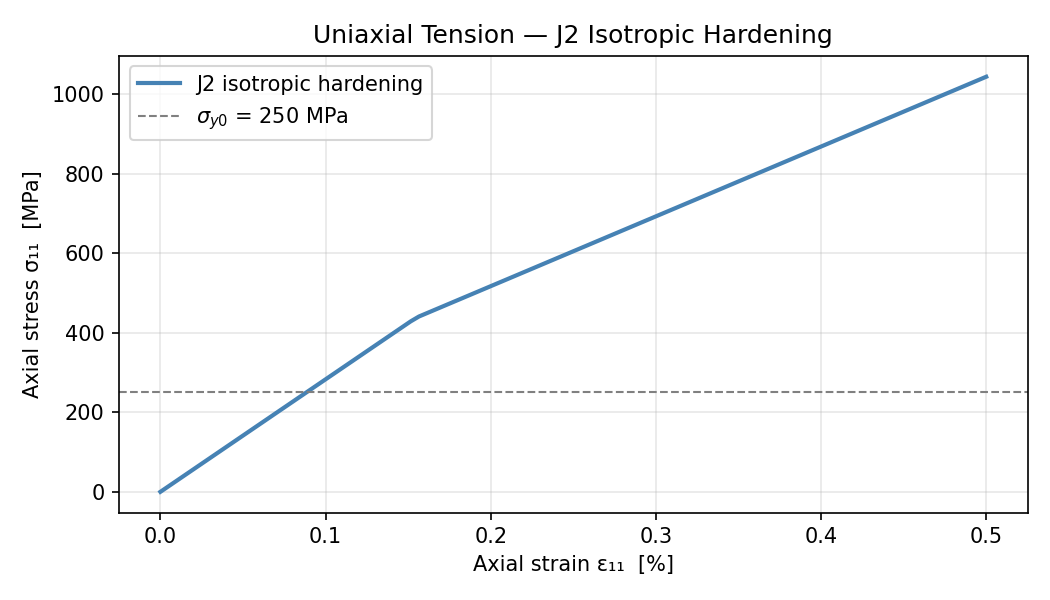
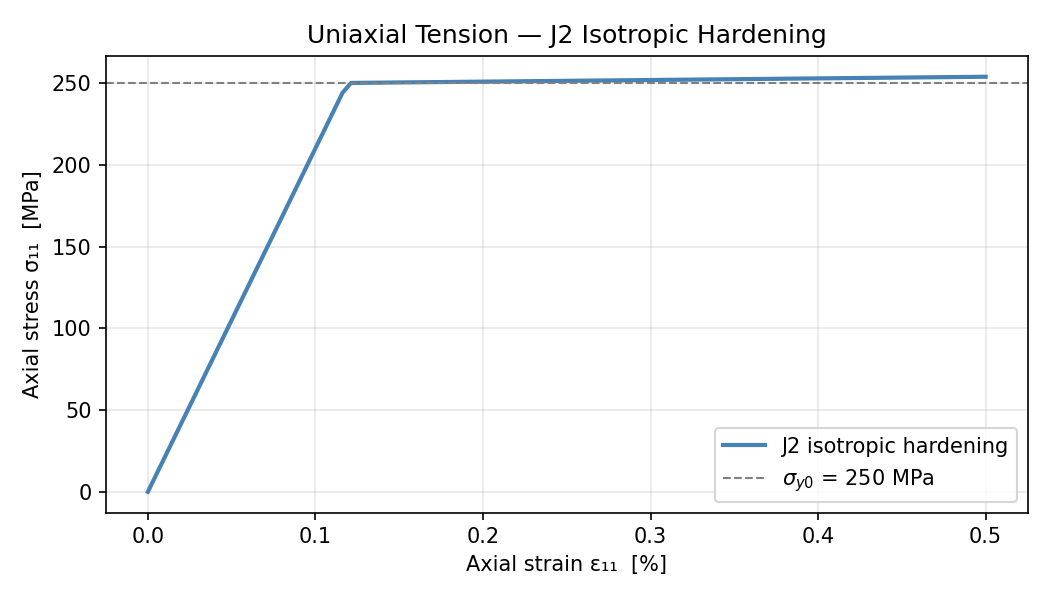
fix: switch examples to J2Isotropic1D for correct uniaxial yield stress plot
J2Isotropic3D with StrainDriver's uniaxial branch applies constrained strain
(lateral strains locked to zero), causing yield at sigma_11 ≈ 437 MPa instead
of sigma_y0=250 MPa. J2Isotropic1D gives sigma_vm = |sigma_11|, so the yield
kink aligns exactly with the sigma_y0 reference line.

diff --git a/examples/example_j2_uniaxial.py b/examples/example_j2_uniaxial.py
@@ -1,7 +1,7 @@
 """Uniaxial tension simulation with J2 isotropic hardening.
 
 Demonstrates:
-- Defining material parameters for J2Isotropic3D
+- Defining material parameters for J2Isotropic1D
 - Running a uniaxial strain history with UniaxialDriver
 - Verifying the consistent tangent with check_tangent
 - Plotting the stress-strain curve (saved as PNG)
@@ -14,7 +14,7 @@ Usage
 import numpy as np
 
 import manforge  # noqa: F401 — enables JAX float64
-from manforge.models.j2_isotropic import J2Isotropic3D
+from manforge.models.j2_isotropic import J2Isotropic1D
 from manforge.simulation.driver import StrainDriver
 from manforge.simulation.types import FieldHistory, FieldType
 from manforge.verification.fd_check import check_tangent
@@ -42,7 +42,7 @@ params = {
 # ---------------------------------------------------------------------------
 # Simulation
 # ---------------------------------------------------------------------------
-model = J2Isotropic3D()
+model = J2Isotropic1D()
 driver = StrainDriver()
 
 N = 100
@@ -76,10 +76,10 @@ print()
 print("Tangent check — elastic domain:")
 result_e = check_tangent(
     model,
-    jnp.zeros(6),
+    jnp.zeros(1),
     model.initial_state(),
     params,
-    jnp.array([1e-5, 0.0, 0.0, 0.0, 0.0, 0.0]),
+    jnp.array([1e-5]),
 )
 status = "PASS" if result_e.passed else "FAIL"
 print(f"  [{status}]  max rel err = {result_e.max_rel_err:.2e}")
@@ -87,10 +87,10 @@ print(f"  [{status}]  max rel err = {result_e.max_rel_err:.2e}")
 print("Tangent check — plastic domain (uniaxial):")
 result_p = check_tangent(
     model,
-    jnp.zeros(6),
+    jnp.zeros(1),
     model.initial_state(),
     params,
-    jnp.array([2e-3, 0.0, 0.0, 0.0, 0.0, 0.0]),
+    jnp.array([2e-3]),
 )
 status = "PASS" if result_p.passed else "FAIL"
 print(f"  [{status}]  max rel err = {result_p.max_rel_err:.2e}")

diff --git a/examples/example_fit_j2.py b/examples/example_fit_j2.py
@@ -1,7 +1,7 @@
 """Parameter fitting example for J2 isotropic hardening.
 
 Demonstrates:
-- Generating synthetic stress-strain data from known parameters
+- Generating synthetic uniaxial stress-strain data from known parameters
 - Adding measurement noise to simulate experimental data
 - Fitting sigma_y0 and H using fit_params (L-BFGS-B)
 - Comparing true vs fitted parameters
@@ -15,7 +15,7 @@ Usage
 import numpy as np
 
 import manforge  # noqa: F401 — enables JAX float64
-from manforge.models.j2_isotropic import J2Isotropic3D
+from manforge.models.j2_isotropic import J2Isotropic1D
 from manforge.simulation.driver import StrainDriver
 from manforge.simulation.types import FieldHistory, FieldType
 from manforge.fitting.optimizer import fit_params
@@ -43,7 +43,7 @@ FIXED_PARAMS = {"E": TRUE_PARAMS["E"], "nu": TRUE_PARAMS["nu"]}
 # ---------------------------------------------------------------------------
 # Generate synthetic "experimental" data
 # ---------------------------------------------------------------------------
-model = J2Isotropic3D()
+model = J2Isotropic1D()
 driver = StrainDriver()
 
 rng = np.random.default_rng(42)
